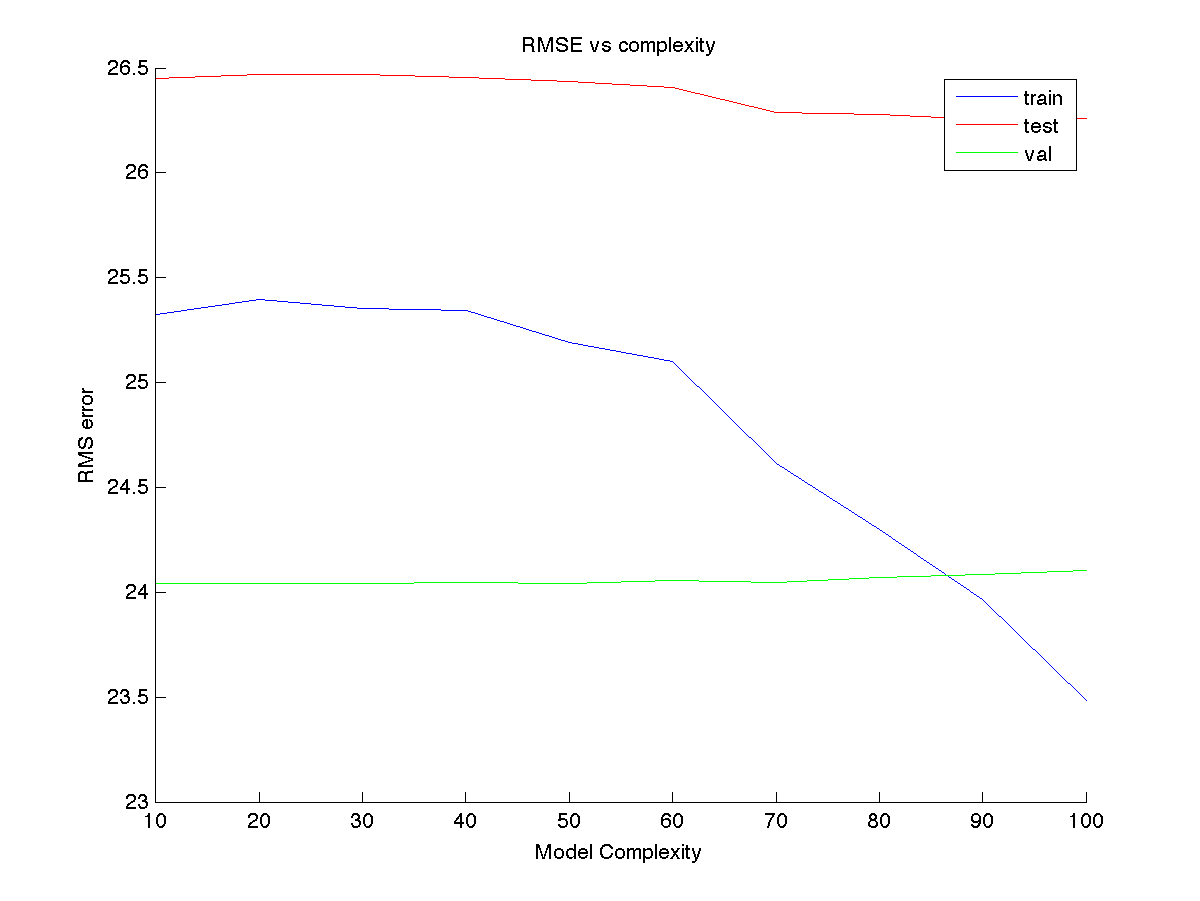
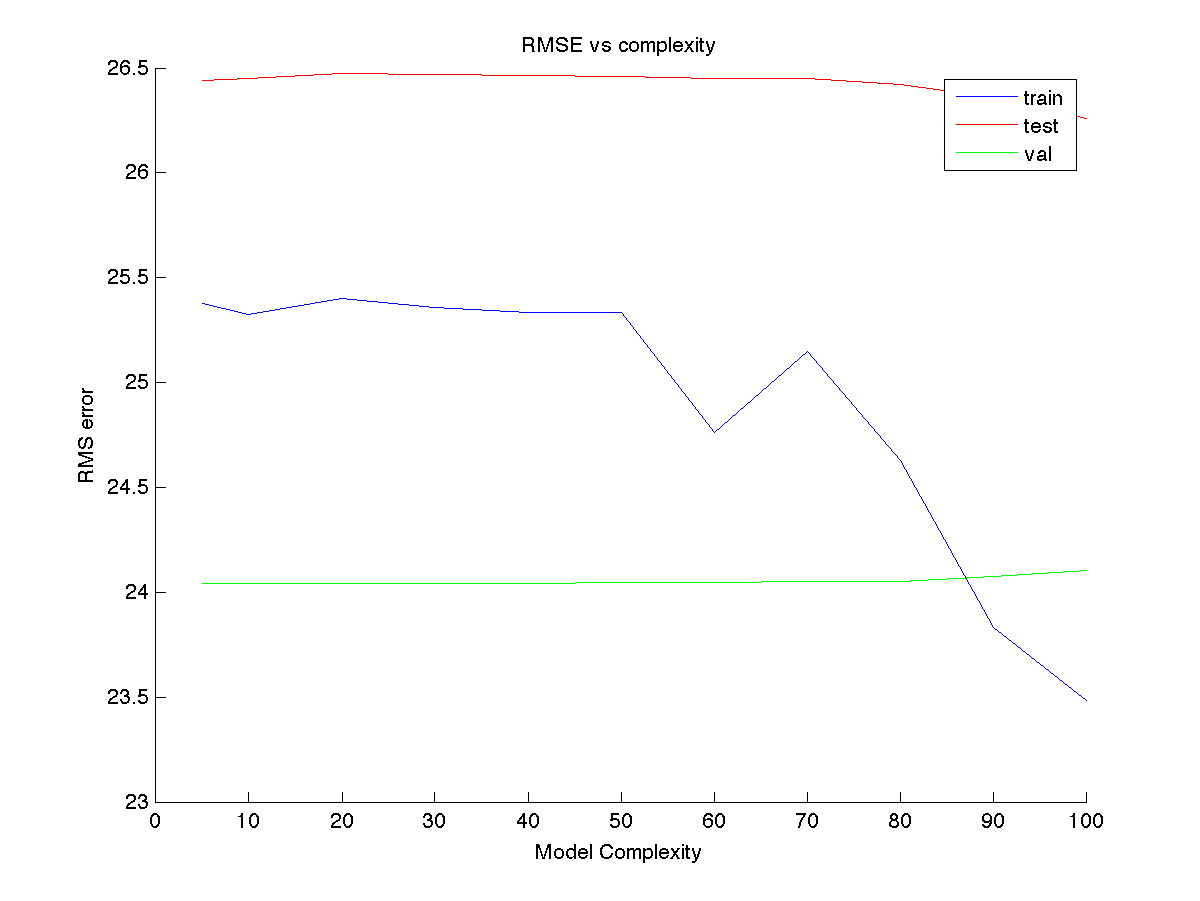
Added plots

diff --git a/Assignment_1/Code/Q2.m b/Assignment_1/Code/Q2.m
@@ -190,7 +190,9 @@ end
 
 % RMSE vs complexity 
 
-M_values = [10,20,30,40,50,60,70,80,90,100];  % no of basis functions
+%{
+
+M_values = [50,100,200,400,600,800,1000];  % no of basis functions
 lambda_values = [0,10^(-6),10^(-5),10^(-4),10^(-3),10^(-2),10^(-1),1,10];
 
 train_rms = [];
@@ -198,7 +200,7 @@ test_rms = [];
 val_rms = [];
 
 for i=1:length(M_values)
-    [rtrain,rtest,rval] = rmserr_Q2_M(trainSet_100,testSet,valSet,M_values(i),lambda_values);
+    [rtrain,rtest,rval] = rmserr_Q2_M(trainSet_1000,testSet,valSet,M_values(i),lambda_values);
     train_rms = [train_rms,rtrain];
     test_rms = [test_rms,rtest];
     val_rms = [val_rms,rval];        
@@ -214,16 +216,22 @@ title('RMSE vs complexity')
 ylabel('RMS error');
 xlabel('Model Complexity');
 legend('show');
-saveas(gcf,'Plots_2/RMS/RMS_complexity_100.png');
+saveas(gcf,'Plots_2/RMS/RMS_complexity_1000.png');
+
+%}
 
 % RMSE vs lambda
 
 %{
+
+M_values = [10,20,30,40,50,60,70,80,90,100];  % no of basis functions
+lambda_values = [0,10^(-6),10^(-5),10^(-4),10^(-3),10^(-2),10^(-1),1,10];
+
 train_rms = [];
 test_rms = [];
 val_rms = [];
 for i=1:length(lambda_values)
-    [rtrain,rtest,rval] = rmserr_Q2_lambda(trainSet_1000,testSet,valSet,M_values,lambda_values(i));
+    [rtrain,rtest,rval] = rmserr_Q2_lambda(trainSet_100,testSet,valSet,M_values,lambda_values(i));
     train_rms = [train_rms,rtrain];
     test_rms = [test_rms,rtest];
     val_rms = [val_rms,rval];        
@@ -241,14 +249,14 @@ title('RMSE vs log(lambda)')
 ylabel('RMS error');
 xlabel('log(lambda)');
 legend('show');
-saveas(gcf,'Plots_2/RMS/RMS_lambda_1000.png');
+saveas(gcf,'Plots_2/RMS/RMS_lambda_100.png');
+
 %}
 
 %%%%%%%%%%%% SCATTER Plots %%%%%%%%%%%%%%%
 
 % Scatter plots for varying N
 
-%{
 n_range = [1000];
 m_range = [300];
 
@@ -272,7 +280,6 @@ for i = 1:length(n_range)
         saveas(fig1,strcat('Plots_2/Scatter/VaryingN/VaryingN_N',int2str(N),'M',int2str(M),'.png'));
     end
 end 
-%}
 
 % Scatter plots for varying M
 

diff --git a/Assignment_1/Code/surface_fit.m b/Assignment_1/Code/surface_fit.m
@@ -1,7 +1,7 @@
 function [coeffs,designMat,centroids,widthParam] = surface_fit(trainSet,N,M,lambda)
 
 % perform k-means clustering
-[idx,centroids] = kmeans(trainSet(:,1:2),M,'replicate',20,'EmptyAction','drop');
+[idx,centroids] = kmeans(trainSet(:,1:2),M,'replicate',20,'EmptyAction','singleton');
 
 %scatter(trainSet(:,2),trainSet(:,1),[],idx);
 
